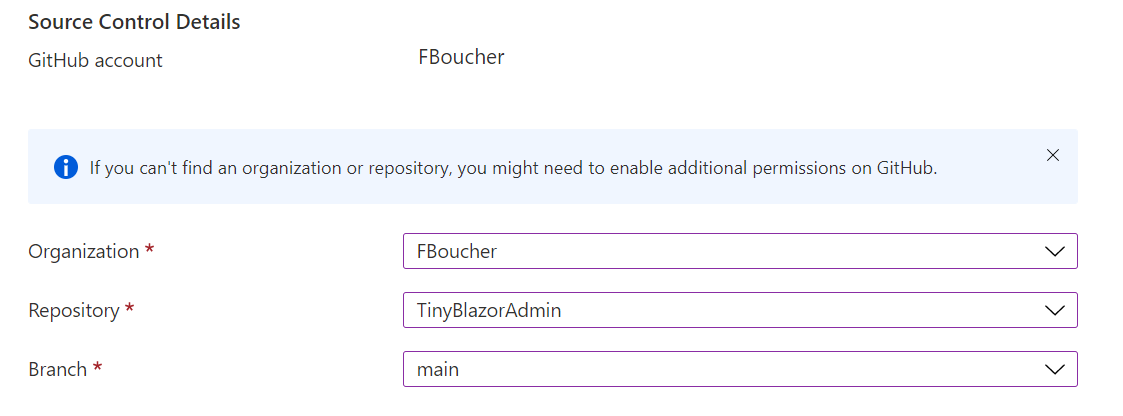
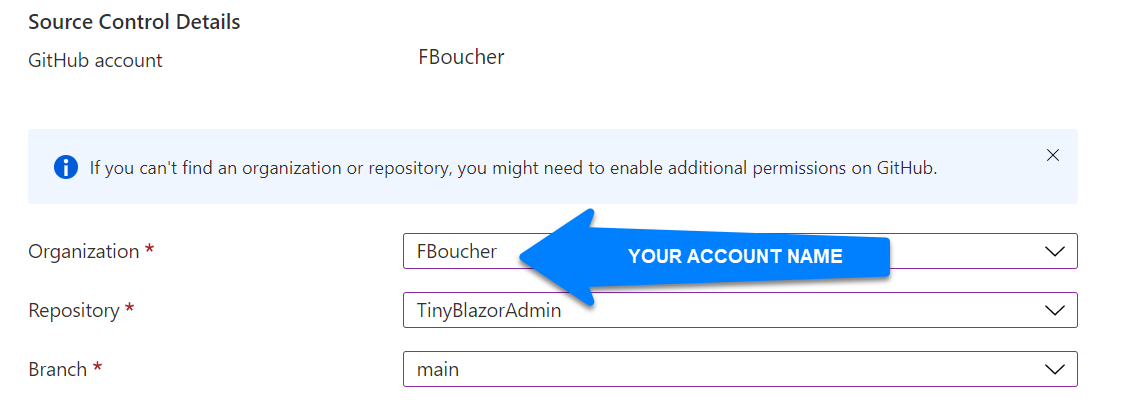
Adding some precisions

Changed region(s): [[0.4363, 0.5, 0.8103, 0.75]]

diff --git a/deployment.md b/deployment.md
@@ -1,15 +1,19 @@
 # Deployment
 
-Until a "full automatic" deployment is created, here are all the steps to deploy the TinyBlazorAdmin app into Azure. You can run it somewhere else and even locally.
+## 1- First thing first: Fork the repository
 
-## First thing first
+### 👉 **Fork this repository** into your own account
 
-You need to **fork this repo** into your own account. You will need to update the configuration (this document will explain when and what), therefore it needs to be yours.
-
-To fork a GitHub repository click on the fork button on the top right of the screen. If you need more detail have a look to this GitHub doc: [Fork a repo
+> To fork a GitHub repository click on the fork button on the top right of the screen. If you need more detail have a look to this GitHub doc: [Fork a repo
 ](https://docs.github.com/en/free-pro-team@latest/github/getting-started-with-github/fork-a-repo).
 
-## Deploy AzUrlShortener (the Backend)
+You will need to update the configuration (this document will explain when to do it and what to change), therefore it needs to be yours.
+
+> Make sure you are currently in YOUR GitHub repository.
+>
+>![This should be YOUR repo][NotFBoucherRepo]
+
+## 2- Deploy AzUrlShortener (the backend)
 
 This project is a frontend only so you will need to deploy the [Azure Url Shortener](https://github.com/FBoucher/AzUrlShortener) in "headless mode". Do to it, click the blue button below and make sure to select **none** as Frontend
 
@@ -18,7 +22,7 @@ This project is a frontend only so you will need to deploy the [Azure Url Shorte
 ![CreateBackend][CreateBackend]
 
 
-## Deploy TinyBlazorAdmin (the Frontend)
+## 3- Deploy TinyBlazorAdmin (the frontend)
 
 There are many ways you could run Tiny Blazor Admin website. In this deployment, we will use the new [Azure Static Web App (SWA)](https://azure.microsoft.com/en-ca/services/app-service/static/?WT.mc_id=tinyblazoradmin-github-frbouche). However, because the TinyBlazorAdmin use Azure Active Directory (AAD), we need a standalone Azure Function (deployed at the previous step).
 
@@ -40,7 +44,7 @@ Select **Blazor** as your *Build Presets*. The *App location* needs to be the lo
 
 Once it's all filled, click the Review, and create button. It will takes a few minutes to get deployed. During this time let's create and configure our security components.
 
-## Create Azure Active Directory (AAD) Components
+## 4- Create Azure Active Directory (AAD) Components
 
 ### Create AAD App for the Fontend
 
@@ -151,5 +155,8 @@ To add a custom domain to your AzUrlShortener & TinyBlazorAdmin, [follow these s
 [swa_URL]: medias/swa_URL.png
 [azFunction_CORS]: medias/azFunction_CORS.png
 [RegisterClientApp]: medias/RegisterClientApp.jpg
+[NotFBoucherRepo]: medias/NotFBoucherRepo.png
+
+
 
  
